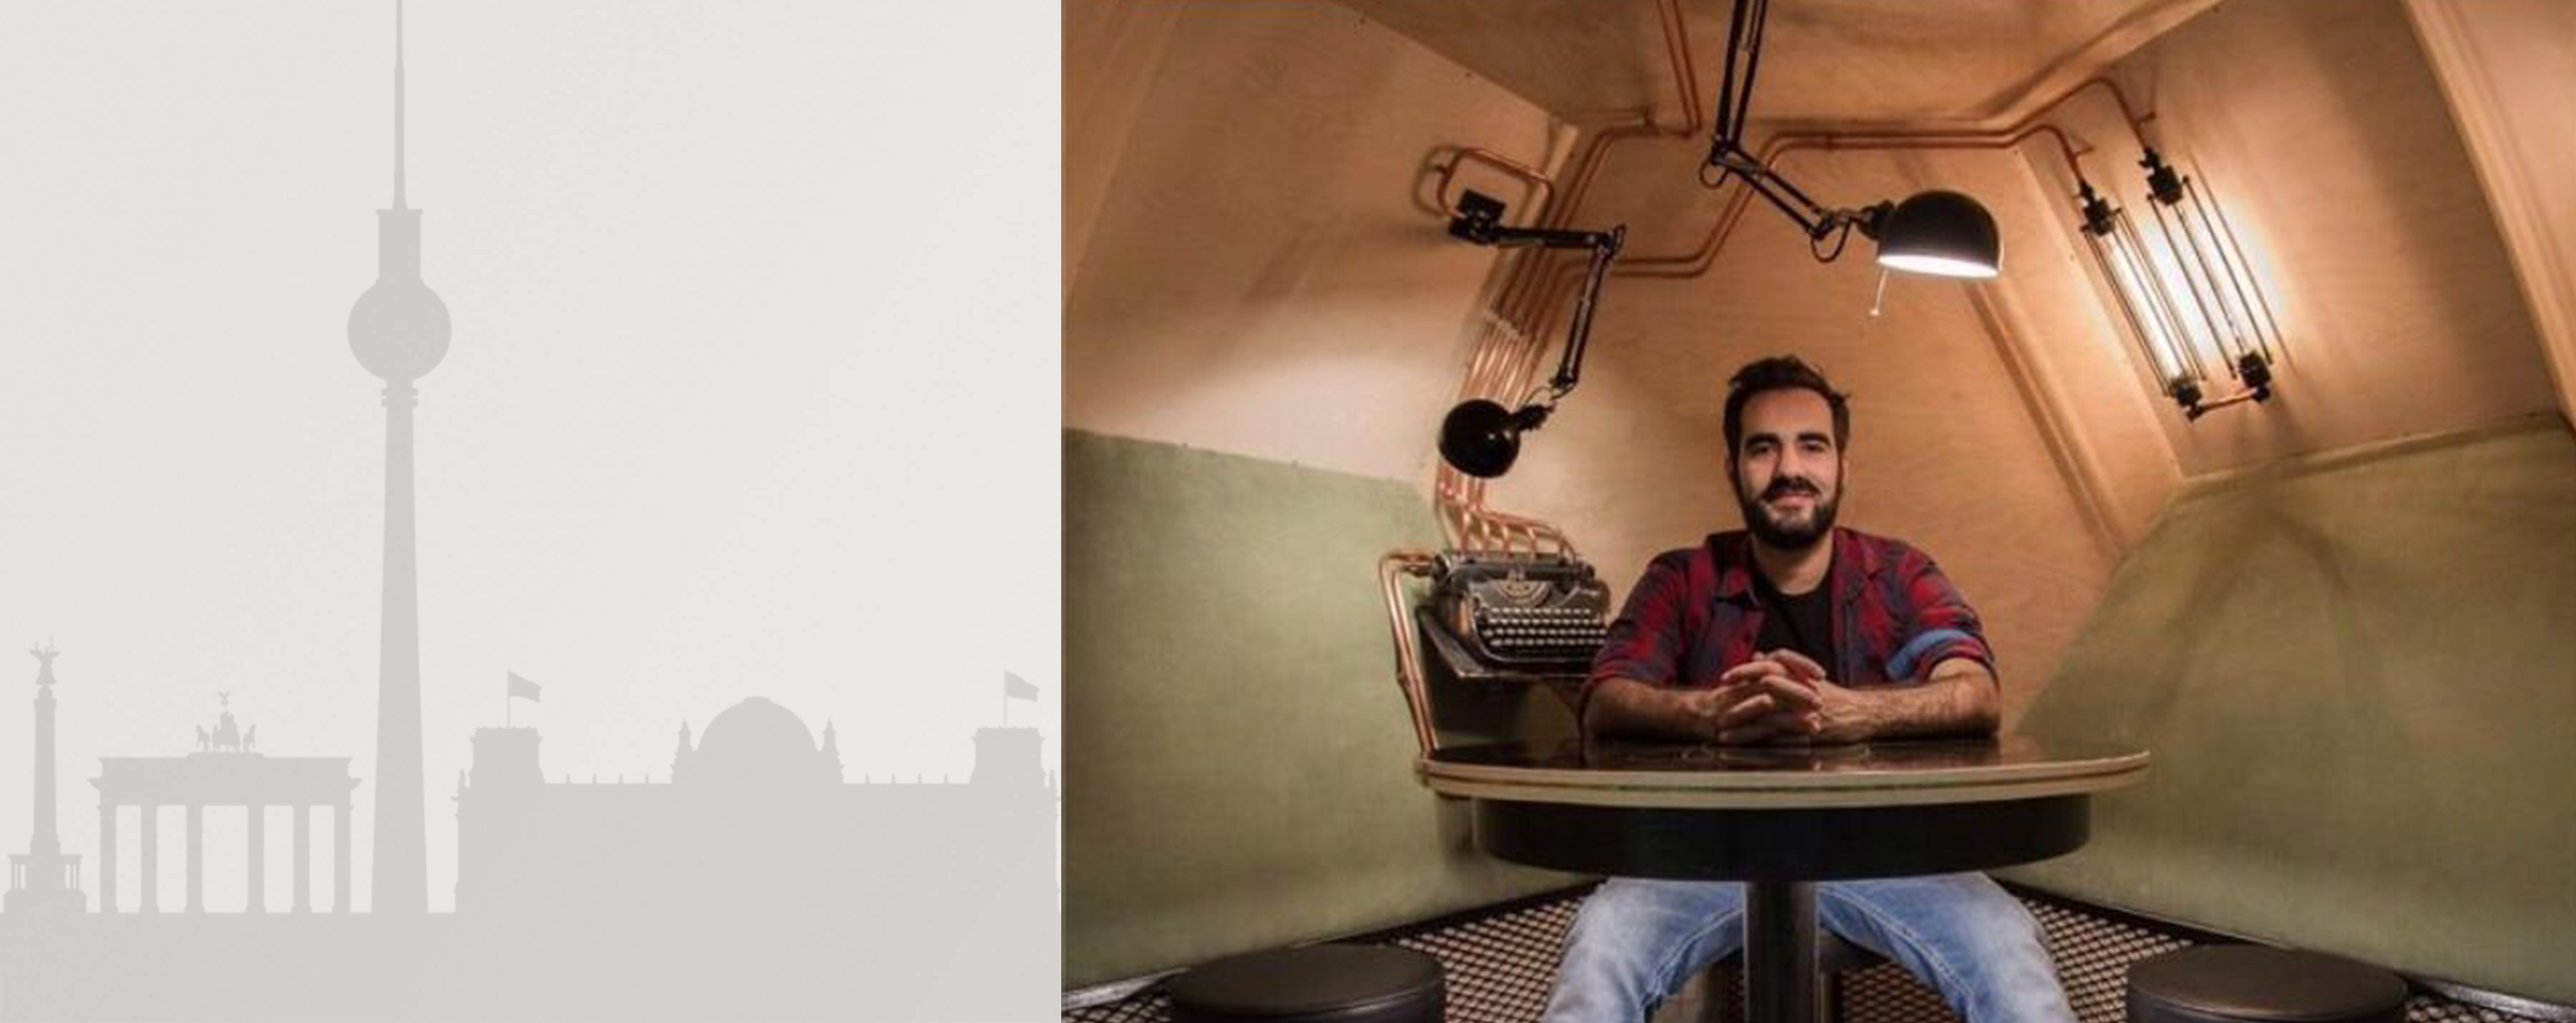
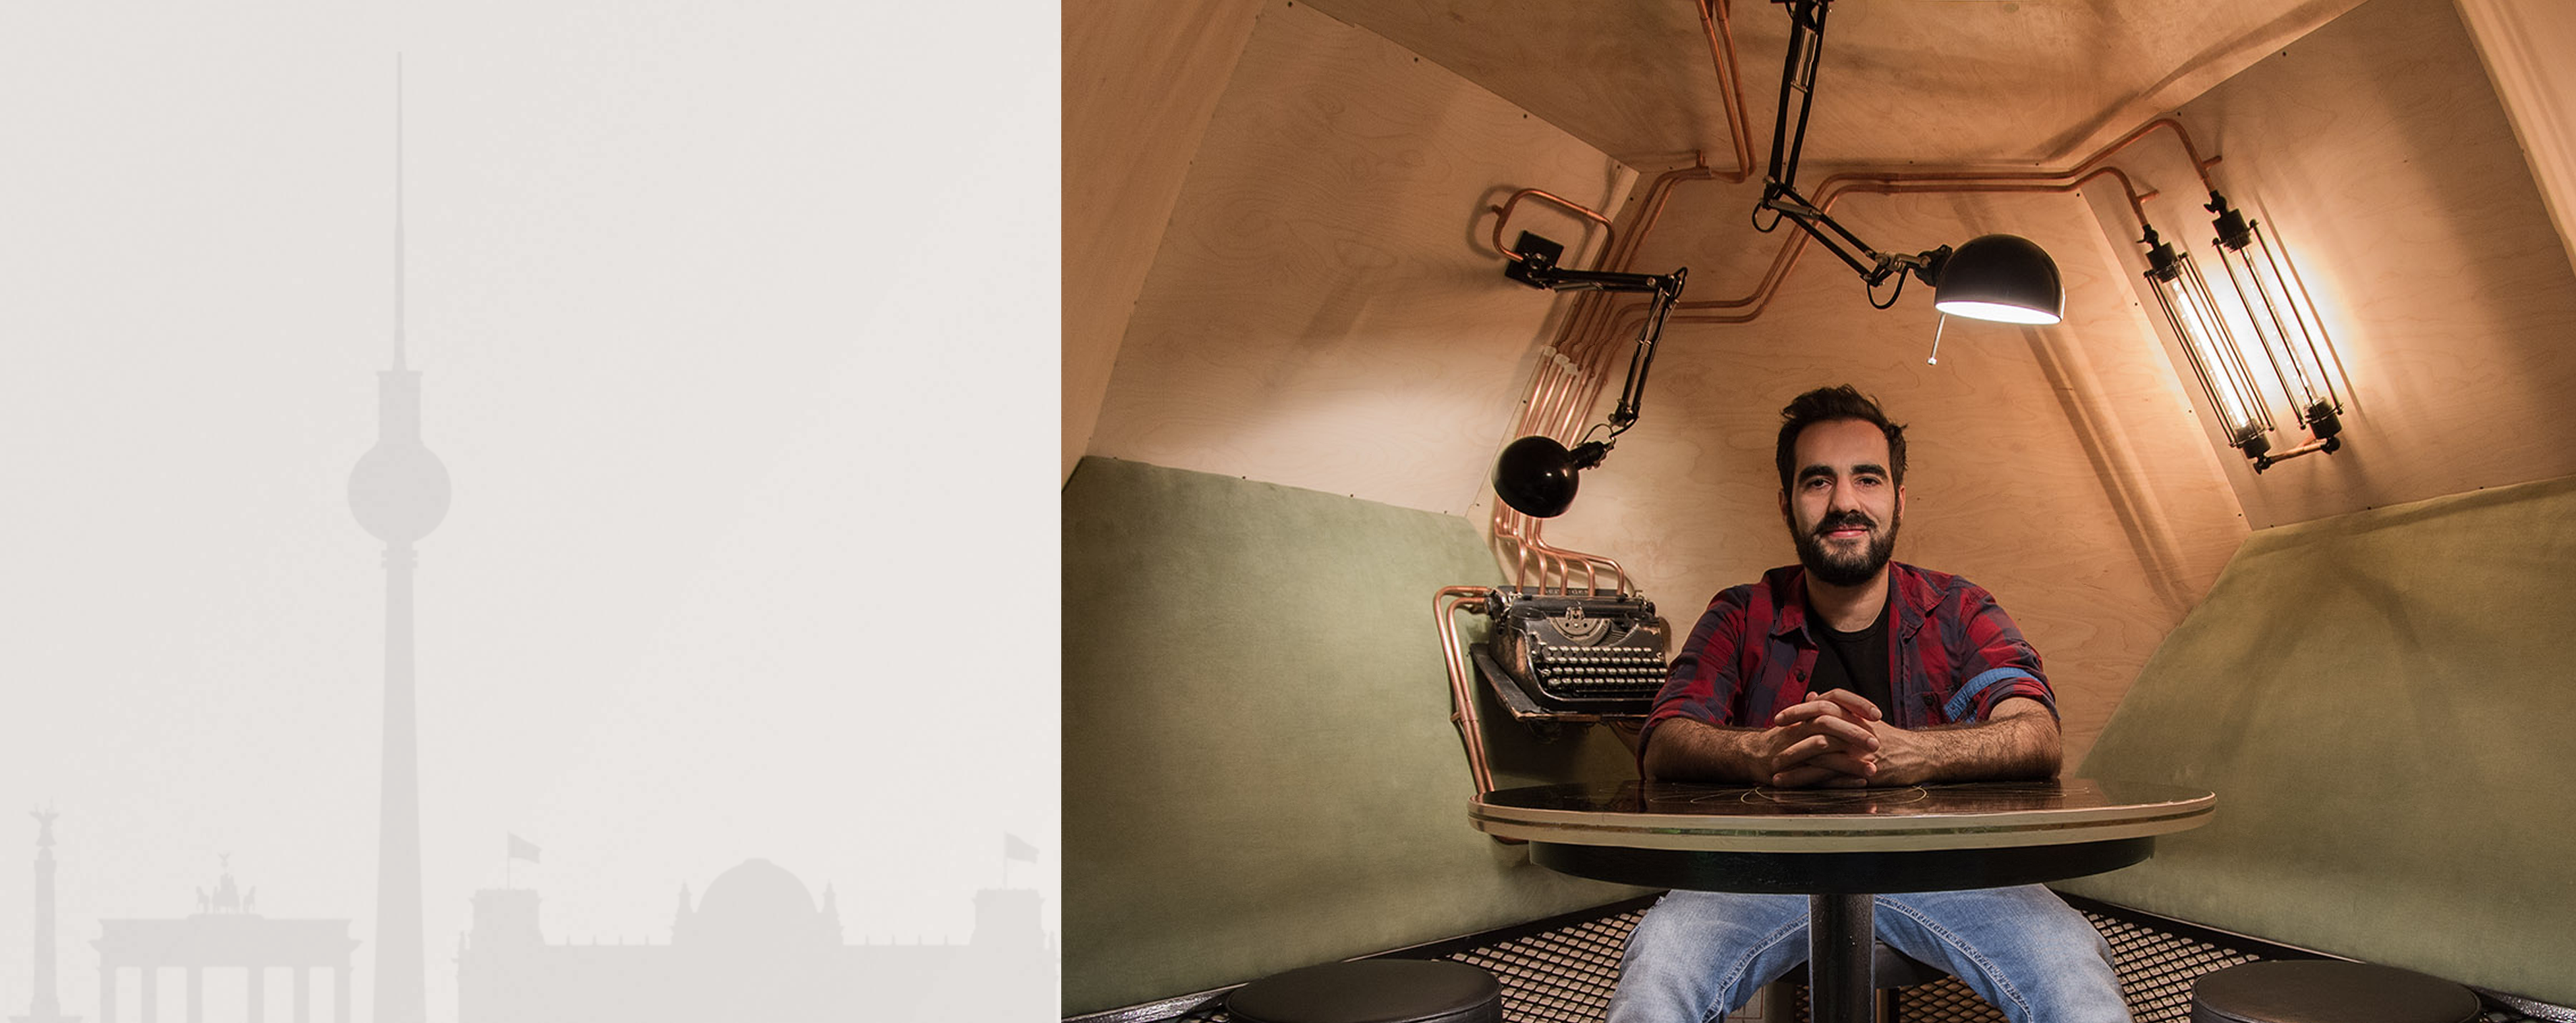
ab photo

diff --git a/nhm/abtin.html b/nhm/abtin.html
@@ -259,7 +259,7 @@
         <div class="main-container">
           <section class="imagebg image--light cover cover-blocks bg--secondary">
               <div class="background-image-holder hidden-xs">
-                  <img alt="background" src="img/promo-1-abtin.png" />
+                  <img alt="background" src="img/promo-2-abtin.png" />
               </div>
               <div class="container">
                   <div class="row">
